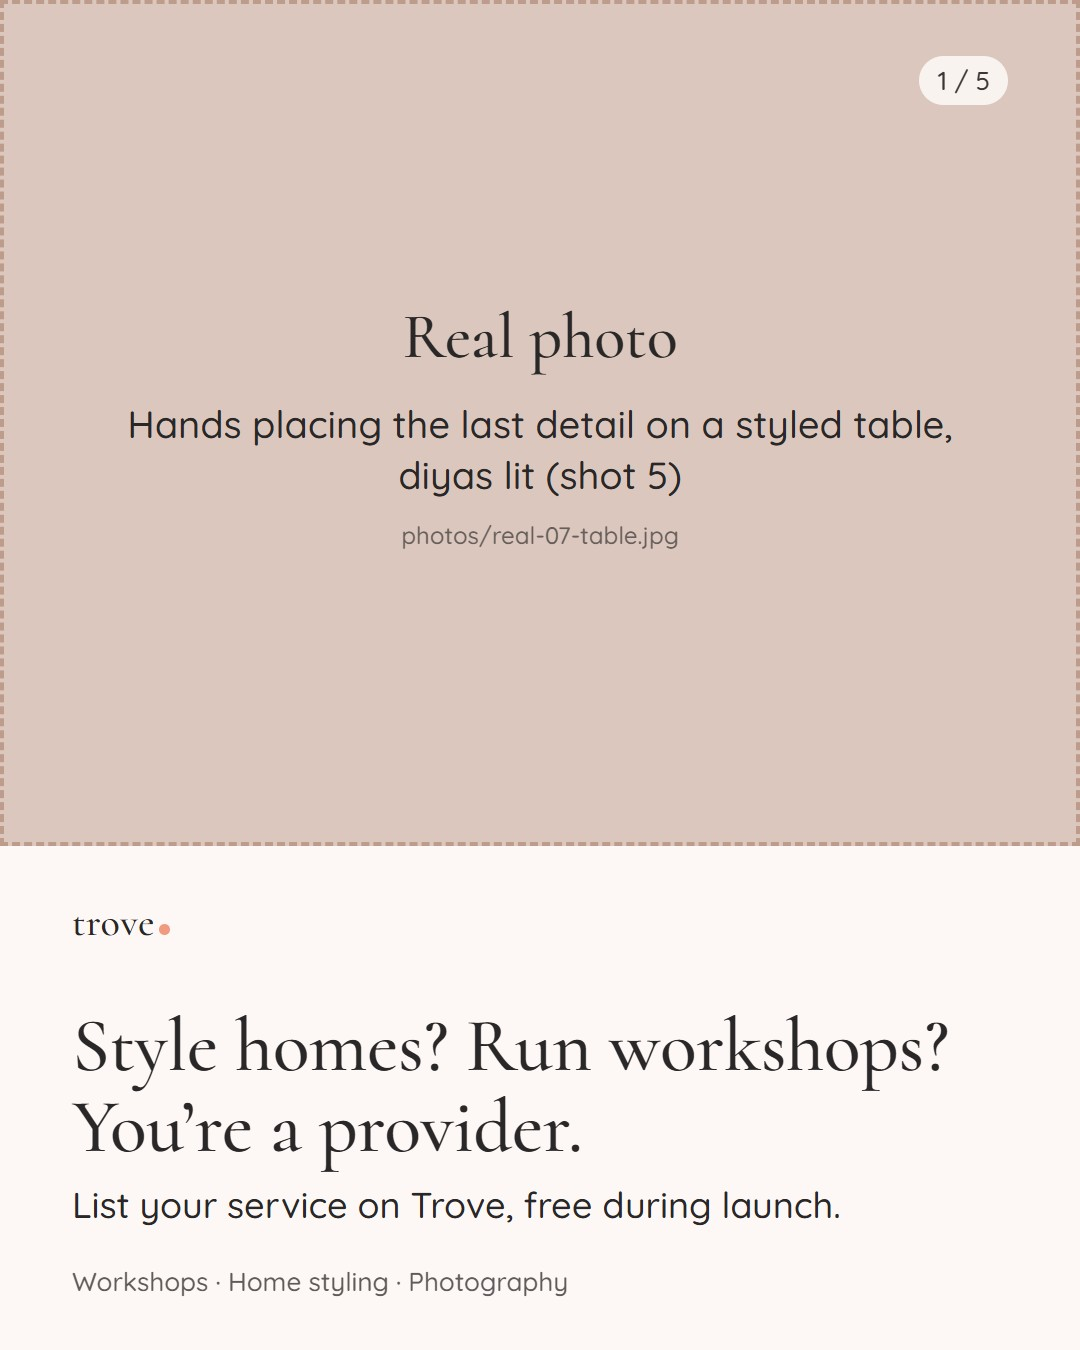
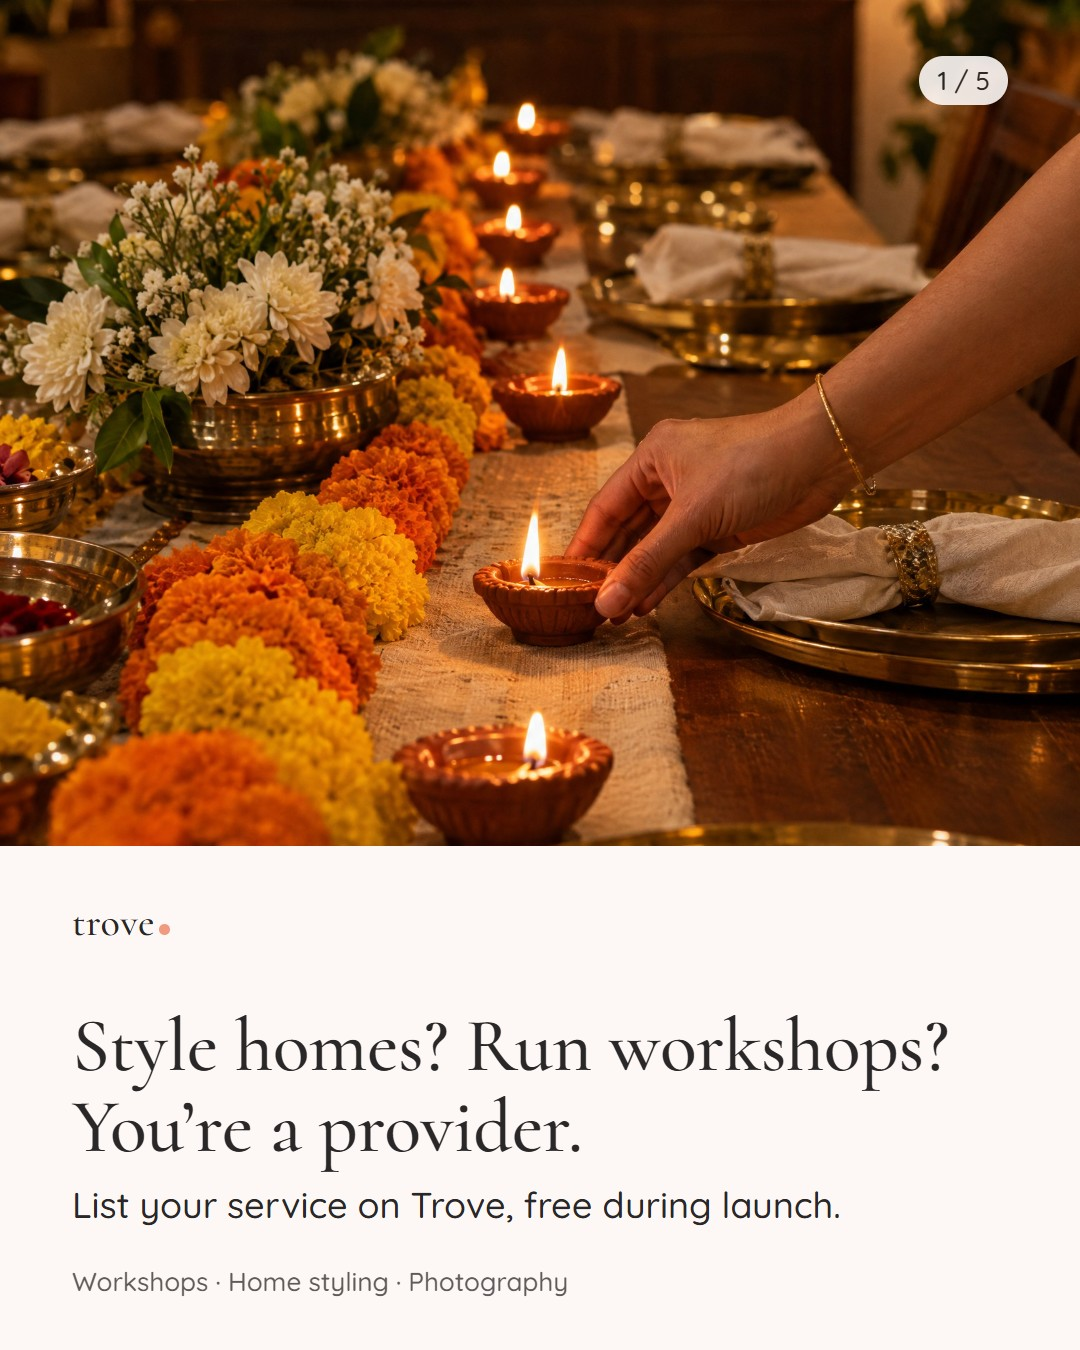
Social: Higgsfield covers for posts 1, 2, 4, 7 and 8, back-up caption for post 10 (still a draft)

diff --git a/social/phase1/frames.js b/social/phase1/frames.js
@@ -2,8 +2,9 @@
 // Order: what Trove is (posts 1–3), then makers and providers get their own posts (4–8), money (9), a real
 // founding maker (10) and the Collection tease (11). Buyers get their own posts in December.
 // Rules for v5 covers: one headline of seven words or fewer, one short line, the offer along the bottom.
-// Every cover shows real hands or real work (a labelled photo slot until the shoot), or is a plain type card.
-// The only generated image left is the Collection tease (post 11), which the brief allows.
+// Every cover shows hands at work or real work, or is a plain type card.
+// 21 Oct 2026 (owner): the photo covers of posts 1, 2, 4, 7 and 8 use Higgsfield images (hands only, no faces,
+// never named as a maker's work) until the shoot; each keeps its real shot as `upgrade`. Post 11 was already generated.
 // "Made here. Made home." is now a small sign-off on end cards only. Copy and captions live in posts.json.
 // Square-bracketed text renders as a dashed placeholder box: fill it in before posting.
 // photo: a file name in ./photos — rendered when present, otherwise a labelled "Real photo" slot.
@@ -23,7 +24,8 @@ const EXAMPLE = 'shop-example-full.png';
 module.exports = [
   // 1. What Trove is (Carousel, 5) — pinned
   cover(1, '1', 'real-01-hands.jpg', 'Close-up of hands finishing a real piece (shot 1)',
-    'Handmade in|Dubai and Abu Dhabi.', 'Trove is a new online marketplace for handmade pieces and creative services.', OFFER),
+    'Handmade in|Dubai and Abu Dhabi.', 'Trove is a new online marketplace for handmade pieces and creative services.', OFFER,
+    { mood: true, upgrade: 'Real shot 1: hands finishing a real piece, close up' }),
   type(1, '2', 'cream', 'Pieces,|made by hand.', 'Ceramics, candles, textiles, prints, jewellery and more, from makers who live here.'),
   type(1, '3', 'clay', 'Services,|at home.', 'Workshops, home styling and photography, from providers in Dubai and Abu Dhabi.'),
   phone(1, '4', 'sell-full.png', 47, 'All on|troveathome.com', 'Makers and providers apply in about ten minutes.', { bg: 'sage' }),
@@ -32,7 +34,7 @@ module.exports = [
   // 2. Why Trove exists (Reel, about 30 seconds, manifesto voiceover over real footage from the shoot)
   { post: 2, id: 'cover', kind: 'reel', bg: 'clay', layout: 'reel-cover-photo', photo: 'real-02-piece.jpg',
     slot: 'A real piece held in its maker’s two hands (shot 9)', kicker: '', title: 'We’d rather know|who made it.',
-    sub: 'Pieces made with care, by people you can name.' },
+    sub: 'Pieces made with care, by people you can name.', mood: true, upgrade: 'Real shot 9: a real piece held in its maker’s two hands' },
   { post: 2, id: 'name-1', kind: 'reel', bg: 'clear', layout: 'lower-third', text: 'Cushion cover · [Name], [area]' },
   { post: 2, id: 'name-2', kind: 'reel', bg: 'clear', layout: 'lower-third', text: 'Wedding-card lettering · [Name], [area]' },
   { post: 2, id: 'name-3', kind: 'reel', bg: 'clear', layout: 'lower-third', text: 'A chair, brought back · [Name], [area]' },
@@ -48,7 +50,8 @@ module.exports = [
 
   // 4. Makers (Carousel, 6)
   cover(4, '1', 'real-04-own-piece.jpg', 'A maker’s own hands holding their own piece (shot 9)',
-    'Make things by hand?|You’re a maker.', 'Sell your handmade pieces on your own Trove shop page.', OFFER),
+    'Make things by hand?|You’re a maker.', 'Sell your handmade pieces on your own Trove shop page.', OFFER,
+    { mood: true, upgrade: 'Real shot 9: a maker’s own hands holding their own piece' }),
   { post: 4, id: '2', kind: 'slide', bg: 'cream', layout: 'grid', title: 'What makers sell|on Trove',
     items: ['Ceramics', 'Candles', 'Cushions and throws', 'Prints', 'Jewellery', 'Stationery', 'Baby blankets', 'Wheat bags', 'Pet collars'] },
   phone(4, '3', EXAMPLE, 0, 'Your own|shop page.', 'Your name, your story, your pieces. This one is an example.', { label: 'Example' }),
@@ -75,7 +78,8 @@ module.exports = [
 
   // 7. Providers (Carousel, 5) — Diwali
   cover(7, '1', 'real-07-table.jpg', 'Hands placing the last detail on a styled table, diyas lit (shot 5)',
-    'Style homes? Run workshops?|You’re a provider.', 'List your service on Trove, free during launch.', 'Workshops · Home styling · Photography', { size: 76 }),
+    'Style homes? Run workshops?|You’re a provider.', 'List your service on Trove, free during launch.', 'Workshops · Home styling · Photography',
+    { size: 76, mood: true, upgrade: 'Real shot 5: hands placing the last detail on a styled table, diyas lit' }),
   { post: 7, id: '2', kind: 'slide', bg: 'cream', layout: 'grid', title: 'Services you can|list on Trove',
     items: ['Workshops at home', 'Home styling', 'Tablescapes', 'Diwali and Christmas styling', 'Portraits at home', 'Photography for makers'],
     sub: 'And more: hand-lettering, repairs and gift wrapping.' },
@@ -85,7 +89,8 @@ module.exports = [
 
   // 8. Providers: workshops (Carousel, 5)
   cover(8, '1', 'real-08-workshop.jpg', 'A real workshop mid-class at home, hands at work (shot 13)',
-    'Run workshops?|Take bookings on Trove.', 'Your own service page, with booking requests in one place.', OFFER_P),
+    'Run workshops?|Take bookings on Trove.', 'Your own service page, with booking requests in one place.', OFFER_P,
+    { mood: true, upgrade: 'Real shot 13: a real workshop mid-class at home, hands at work' }),
   steps(8, '2', 'cream', 'How a booking works', ['Your workshop gets its own page', 'Someone requests a date', 'You confirm the date and final price', 'They pay you directly, or by card through Trove']),
   phone(8, '3', 'services-top.png', 47, 'On the Services|Marketplace.', 'Workshops, styling and photography, in homes in Dubai and Abu Dhabi.', { bg: 'sage' }),
   { post: 8, id: '4', kind: 'slide', bg: 'clay', layout: 'grid', title: 'Workshops people|book at home',

diff --git a/HANDOVER.md b/HANDOVER.md
@@ -1,6 +1,6 @@
 # Trove — handover
 
-Last updated 20 October 2026 (laptop session: social Phase 1 v5). The detailed engineering notes live in `CLAUDE.md`; this file is the plain-English version. Start every session with `git pull`.
+Last updated 21 October 2026 (laptop session: Higgsfield covers for social Phase 1). The detailed engineering notes live in `CLAUDE.md`; this file is the plain-English version. Start every session with `git pull`.
 
 ## What is live
 
@@ -24,7 +24,7 @@ Last updated 20 October 2026 (laptop session: social Phase 1 v5). The detailed e
 - **v5 = the rebuild after the 20 Oct creative review.** Eleven posts, 21 Oct to 20 Nov, every three days at 18:30 Dubai time, in three steps: what Trove is (posts 1 to 3, pinned), who it's for (makers, providers, buyers), then posts of their own for makers (4 to 6) and providers (7, 8). Then money (9), a real founding maker (10, with ready back-up slides) and the Collection tease (11). Buyers get their own posts in December.
 - **Cover rules** (now in `social/BRIEF.md`): one headline of seven words or fewer plus one short line, the offer along the bottom ("Free to join · We photograph it · We collect it"), real hands or real work or a plain type card. No AI image on a cover except the Collection tease. "Made here. Made home." is only an end-card sign-off. One-liner: "Trove is a new online marketplace for handmade pieces and creative services in Dubai and Abu Dhabi."
 - **Not taken from the review, on purpose:** Dream Avenue (Cormorant stays, owner's 27 July call), cutting the services list (the categories are real; covers lead with workshops, styling and photography), "Keep 60%" as a headline (owner's 19 Oct money rule), "fast, throwaway things" (the brief never knocks mass-made goods). Kiln & Clay was a test shop and isn't in any post.
-- **Status:** 48 of 61 frames ready. Waiting on the half-day real-people shoot: the covers of posts 1, 2, 4, 7 and 8 are labelled "Real photo" slots (shot list on the review page, 13 shots), plus the name tags in post 2. Post 10 needs a real founding maker, or its two back-up slides run.
+- **Status (21 Oct):** 53 of 61 frames ready; 10 of the 11 posts can go out as they are. **Owner, 21 Oct: "create actual posts with images from Higgsfield".** The covers of posts 1, 2, 4, 7 and 8 now use Higgsfield images (GPT Image 2.5, high, 2K; hands only, no faces, no skyline; 10 made, 5 used, 27.5 credits ≈ $1.10 to $1.50 from the existing balance). Each keeps its real shot as the planned upgrade; the shoot is no longer blocking. Switch on Instagram's AI label on those posts and never caption them as a named maker's work. Post 2 is a Reel and still needs video: real footage, or Higgsfield clips with craft-only tags and no invented names (Kling 3.0 pro, 5 s, silent = 8.75 credits a clip, about 53 credits for 30 s). Post 10 runs its back-up slides with the new `altCaption` until a real founding maker agrees. **Ready-to-post export:** `Downloads\Trove Phase 1 posts` (one folder per post, images in order, caption.txt, README); rebuild it after any re-render.
 - **Files:** `social/phase1/frames.js` (what each frame says), `posts.json` (captions, shoot plan, DMs, Stories, checks), `render.js` (renders to `social/phase1/out` and draws `screens/shop-example.html`, the labelled example shop page), `gallery.html` (the review page; publish it with `posts.json` and `out/`). Real photos go in `social/phase1/photos/` under the file name shown on each slot, then re-render: `PW_CORE=<repo>/e2e/node_modules/playwright-core node render.js` from `social/phase1`.
 - **Two marketing agents** live in `.claude/agents/` (`trove-brand-strategist`, `trove-social-creative`). Both read `social/BRIEF.md`. On a new machine, copy them to `~/.claude/agents/`.
 - **Before anything posts:** a UAE business adviser signs off "no company needed to start"; a native speaker reviews the Arabic; the photographer can take on every maker who wants photos; Diwali (8 Nov) and Downtown Design dates confirmed. **Site fixes for the owner to decide** (nothing changed yet): (1) the Apply form needs an Instagram or website link, which blocks hobbyists (the review calls this the most important fix); (2) the homepage says "makers across the UAE"; (3) the homepage Collection band says the Marketplace "is full of handmade pieces".

diff --git a/social/BRIEF.md b/social/BRIEF.md
@@ -53,7 +53,7 @@ Phase 1 of the launch (21 Oct to 22 Nov 2026) has one objective: **find founding
 - **No urgency or scarcity:** nothing like "hurry", "limited spots", "last chance", "don't miss out", or countdowns. The brand's own line is "Have a wander. There's no rush."
 - **No superiority claims:** no "first", "only", "largest" or "the UAE's Etsy". Other UAE handmade marketplaces exist (Sparkleberry, Crafty UAE). Never knock other platforms or "mass-produced" goods. Show the real thing instead.
 - **Never invent people or numbers:** no made-up makers, quotes, testimonials, statistics or applicant counts. Use [brackets] wherever a real person or fact is needed.
-- **AI imagery:** only for mood (materials, tools, spaces) and Collection teases. Never present it as a maker's work. Real makers' hands, faces and pieces come from real photos and video.
+- **AI imagery:** for mood (materials, tools, spaces), Collection teases and, since 21 Oct 2026, stand-in covers of hands at work until the shoot. Never present it as a maker's work and never invent a named person. Real makers' hands, faces and pieces come from real photos and video.
 - **Culture:** speak to Emiratis and to the many nationalities who call the UAE home, inclusively and respectfully.
   - Do not use the UAE flag, the national emblem, or leaders' images or quotes in commercial posts.
   - Do not quote official slogans or "Year of ..." themes unless certain. Mark anything like that **VERIFY**.
@@ -65,6 +65,6 @@ Phase 1 of the launch (21 Oct to 22 Nov 2026) has one objective: **find founding
 - **Channels:** Instagram first. Facebook and TikTok where it is natural.
 - **Formats:** Reels (9:16), carousels (4:5), single images, Stories, collab posts with makers, DMs.
 - **Schedule:** one grid post every three days at 18:30 Dubai time. Since v5 (20 Oct): eleven posts, 21, 24, 27, 30 Oct and 2, 5, 8, 11, 14, 17, 20 Nov. Stories run in between. The dates are a plan only: nothing is scheduled or posted until the owner says launch.
-- **Cover rules (from the 20 Oct creative review, v5):** say what Trove is first, then who it's for (makers, providers, buyers). One headline of seven words or fewer, plus one short line, with the offer visible ("Free to join · We photograph it · We collect it"). Every cover shows real hands or real work, or is a plain type card; no AI image on a cover except a Collection tease. "Made here. Made home." is an end-card sign-off only. One-liner: "Trove is a new online marketplace for handmade pieces and creative services in Dubai and Abu Dhabi."
+- **Cover rules (from the 20 Oct creative review, v5):** say what Trove is first, then who it's for (makers, providers, buyers). One headline of seven words or fewer, plus one short line, with the offer visible ("Free to join · We photograph it · We collect it"). Every cover shows hands at work or real work, or is a plain type card. **Owner, 21 Oct 2026:** until the shoot, photo covers may use Higgsfield images (hands only, no faces, never captioned as a named maker's work, Instagram AI label on); each is swapped for the real shot once it is taken. "Made here. Made home." is an end-card sign-off only. One-liner: "Trove is a new online marketplace for handmade pieces and creative services in Dubai and Abu Dhabi."
 - **Downtown Design:** in early November (around 4–8 Nov, VERIFY). Maker outreach happens in person there too.
 - **Call to action:** every post points to troveathome.com/apply.
